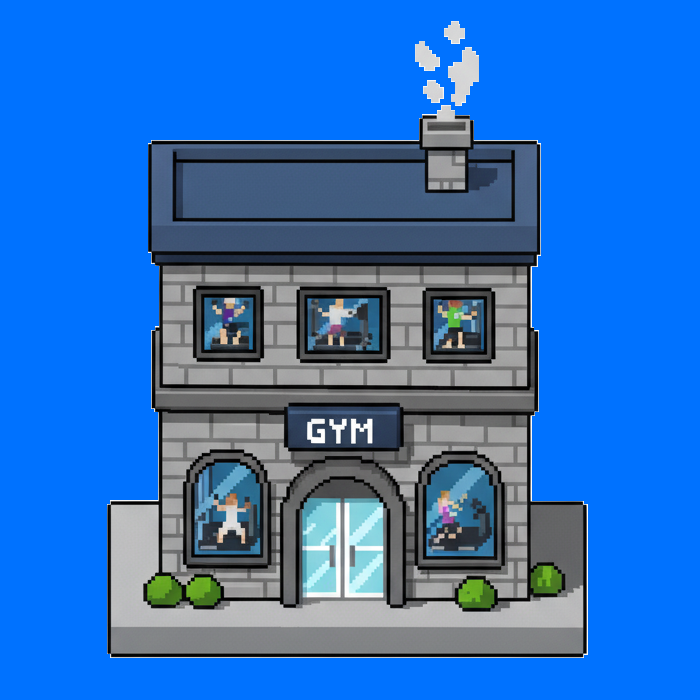
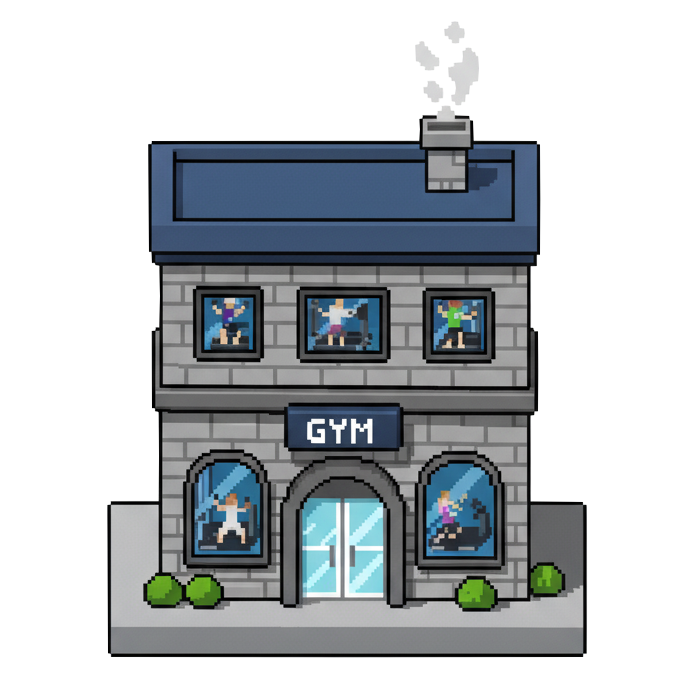
map + clue restyled

diff --git a/flask game/static/js/index.js b/flask game/static/js/index.js
@@ -49,9 +49,11 @@ function removeFromClues(category, clue) {
 function buildClueList() {
     const modelContent = document.querySelector(".model-content");
     modelContent.innerHTML = `<ul id="clue-list">
-                        <li>
-                            The theft took place on July 28, 2024 and that it took place on Humphrey Street.
-                            Maybe start by checking for reports in the police station?
+                        <li class="pixel-box list-item">
+                            <p>
+                                The theft took place on July 28, 2024 and that it took place on Humphrey Street.
+                                Maybe start by checking for reports in the police station?
+                            </p>
                         </li>
                     </ul>`;
     const categories = Object.keys(localStorage);
@@ -61,15 +63,18 @@ function buildClueList() {
         title.innerHTML = cat;
         const items = JSON.parse(localStorage.getItem(cat));
         items.forEach(i => {
+            console.log("i is", i)
             const li = document.createElement("li");
-            const clue = document.createElement("span");
-            clue.innerHTML = i + "   ";
-            const button = document.createElement("button");
-            button.innerHTML = "x";
-            button.title = "Remove from clues";
-            button.addEventListener("click", () => removeFromClues(cat, i));
-            li.append(clue, button);
+            li.classList.add("pixel-box", "list-item");
             ul.appendChild(li);
+            const p = document.createElement("p");
+            p.innerHTML = i;
+            const button = document.createElement("button");
+            button.classList.add("pixel-box", "icon-button")
+            button.innerHTML = "x";
+            button.title = "Forget clue";
+            button.addEventListener("click", () => removeFromClues(cat, i));
+            li.append(button, p);
         })
         modelContent.append(title, ul);
     })

diff --git a/flask game/templates/map.html b/flask game/templates/map.html
@@ -9,19 +9,30 @@
 {% endblock %}
 
 {% block content %}
-    <div class="map-grid">
-        <div class="left">
+    <div class="page-container">
+        <h1>Time to start your investigation!</h1>
+        <p>
+            Visit locations to gather information. As you uncover clues, you can save them into your clue bank, accessible by
+            clicking the button at the bottom left of the page.
+        </p>
+        <div class="map-container">
             <a href="/police-station">
                 <img 
                     src="{{url_for('static', filename='/assets/police-station.png')}}" 
                     alt="A pixel-art police station building">
             </a>
-        </div>
-        <div class="road"></div>
-        <div class="right">
+
             <img 
                 src="{{url_for('static', filename='/assets/bakery.png')}}" 
                 alt="A pixel-art bakery building with carpark">
+
+            <img 
+                src="{{url_for('static', filename='/assets/atm.png')}}" 
+                alt="A pixel-art ATM beneath a street sign that says Leggett Street">
+
+            <img 
+                src="{{url_for('static', filename='/assets/gym.png')}}" 
+                alt="A pixel-art Gym with people working out visible through the windows">
         </div>
     </div>
 {% endblock %}

diff --git a/flask game/static/style/global.css b/flask game/static/style/global.css
@@ -5,6 +5,13 @@ body {
     margin: 0;
 }
 
+button {
+    cursor: pointer;
+    font-family: "Jersey 15", sans-serif;
+    font-weight: 400;
+    font-style: normal;
+}
+
 .pixel-box {
     color: black;
     text-align: center;
@@ -64,7 +71,7 @@ body {
 }
 
 .model-container {
-    background-color: rgba(255, 255, 255, 0.8);
+    background-color: rgba(255, 255, 255, 0.9);
     position: fixed;
     top: 0;
     left: 0;
@@ -89,9 +96,33 @@ body {
 
 .model-content {
     overflow-y: auto;
+    overscroll-behavior-y: contain;
     flex-grow: 1;
     text-align: left;
     margin-top: 1em;
+}
+
+.model-content ul {
+    padding: 0;
+}
+
+.model-content li {
+    list-style: none;
+}
+
+.list-item {
+    display: flex;
+    flex-direction: column;
+    margin-bottom: 1em;
+}
+
+.list-item button {
+    align-self: flex-end;
+}
+
+.list-item p {
+    text-align: left;
+    margin: 0;
 }
 
 .hidden {
@@ -121,11 +152,11 @@ body {
 }
 
 @media (hover: hover) {
-    .clue-control, .link-container {
+    .clue-control, .link-container, button {
         transition: transform 0.3s;
     }
 
-    .clue-control:hover, .link-container:hover {
+    .clue-control:hover, .link-container:hover, button:hover {
         transform: scale(1.05);
         transition: transform 0.3s;
     }

diff --git a/flask game/static/style/map.css b/flask game/static/style/map.css
@@ -1,31 +1,23 @@
-.map-grid {
-    display: grid;
-    grid-template-columns: 2fr 1fr 2fr;
-    grid-template-areas: 
-        "left road right";
-}
-
-.road {
-    grid-area: road;
-    background-image: url('../assets/road.png');
-    background-position: center center;
-    background-repeat: repeat;
-    background-size: 100%;
-    height: 100vh;
-}
-
-.left, .right {
+.page-container {
     display: flex;
     flex-direction: column;
     align-items: center;
+    padding: 0 1em;
 }
 
-.left img {
-    max-width: 60%;
+.map-container {
+    display: flex;
+    flex-wrap: wrap;
+    justify-content: center;
+    gap: 1em;
 }
 
-.right img {
-    max-width: 80%;
+.map-container a {
+    text-decoration: inherit;
+}
+
+img {
+    height: 15em;
 }
 
 a {
@@ -41,5 +33,12 @@ a {
         transform: scale(1.05);
         transition: transform 0.3s;
         cursor: pointer;
+    }
+}
+
+@media (max-width: 400px) {
+    img {
+        max-width: 260px;
+        height: auto;
     }
 }

diff --git a/flask game/static/style/police-station.css b/flask game/static/style/police-station.css
@@ -28,13 +28,6 @@ form {
     margin-bottom: 1em;
 }
 
-button {
-    cursor: pointer;
-    font-family: "Jersey 15", sans-serif;
-    font-weight: 400;
-    font-style: normal;
-}
-
 ul, h3 {
     margin: 0;
 }
@@ -43,21 +36,6 @@ ul, h3 {
     display: flex;
     flex-direction: column;
     align-items: flex-start;
-}
-
-.list-item {
-    display: flex;
-    flex-direction: column;
-    margin-bottom: 1em;
-}
-
-.list-item button {
-    align-self: flex-end;
-}
-
-.list-item p {
-    text-align: left;
-    margin-top: 0;
 }
 
 table, th, td {
@@ -80,17 +58,5 @@ td {
     form {
         display: grid;
         grid-template-columns: auto;
-    }
-}
-
-
-@media (hover: hover) {
-    button {
-        transition: transform 0.3s;
-    }
-
-    button:hover {
-        transform: scale(1.05);
-        transition: transform 0.3s;
     }
 }

diff --git a/flask game/templates/map copy .html b/flask game/templates/map copy .html
@@ -1,0 +1,27 @@
+{% extends "clues_wrapper.html" %}
+
+{% block title %}
+    Map
+{% endblock %}
+
+{% block stylesheet %}
+    <link rel="stylesheet" href="{{ url_for('static',filename='style/map.css') }}">
+{% endblock %}
+
+{% block content %}
+    <div class="map-grid">
+        <div class="left">
+            <a href="/police-station">
+                <img 
+                    src="{{url_for('static', filename='/assets/police-station.png')}}" 
+                    alt="A pixel-art police station building">
+            </a>
+        </div>
+        <div class="road"></div>
+        <div class="right">
+            <img 
+                src="{{url_for('static', filename='/assets/bakery.png')}}" 
+                alt="A pixel-art bakery building with carpark">
+        </div>
+    </div>
+{% endblock %}

diff --git a/flask game/templates/clues_wrapper.html b/flask game/templates/clues_wrapper.html
@@ -9,9 +9,11 @@
             <h1>Clues 🔎</h1>
             <div class="model-content">
                 <ul id="clue-list">
-                    <li>
-                        The theft took place on July 28, 2024 and that it took place on Humphrey Street.
-                        Maybe start by checking for reports in the police station?
+                    <li class="pixel-box">
+                        <div class="text-left">
+                            The theft took place on July 28, 2024 and that it took place on Humphrey Street.
+                            Maybe start by checking for reports in the police station?
+                        </div>
                     </li>
                 </ul>
             </div>

diff --git a/flask game/utils.py b/flask game/utils.py
@@ -17,13 +17,8 @@ def validate_values(values):
 
 
 def escape_strings(list, pos):
-    print("BEFORE", list)
     for i in range(0, len(list)):
-        # print("BEFORE IN LOOP", list[i][pos])
-        list[i][pos] = list[i][pos].replace("'", "&apos;")
-        # list[i][pos].replace('"', '\"')
-        # print("AFTER IN LOOP", list[i][pos])
-    print("AFTER", list)
+        list[i][pos] = list[i][pos].replace("'", "’")
     return list
 
 
@@ -37,8 +32,8 @@ def get_police_reports(form):
             os.getenv("SUPABASE_KEY"))
         if date and street:
             response = (supabase.table("crime_scene_reports")
-                .select()
-                .eq("street", street)  
+                .select("*")
+                .eq("street", street)
                 .eq("day", int(day))
                 .eq("month", int(month))
                 .eq("year", int(year))
